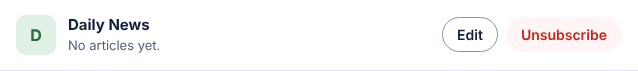
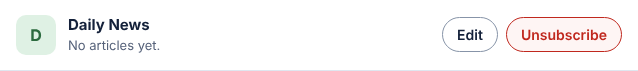
Keep the pill shape on destructive actions
Borderless red text didn't read as a button at first sight. Use a
normal outlined pill with red text instead, tinted red on hover (the
pattern GitHub's Primer uses for danger buttons).

diff --git a/internal/ui/static/css/main.css b/internal/ui/static/css/main.css
@@ -672,16 +672,15 @@
   }
 
   /* An action that loses something you can't get back, where it isn't the
-     final step of a confirmation: red text, no border, a red tint on hover.
-     Hover uses --on-danger-bg, since dark's --danger is too light on
-     --danger-bg. */
+     final step of a confirmation: a normal pill with red text, tinted red
+     on hover. Hover uses --on-danger-bg, since dark's --danger is too light
+     on --danger-bg. */
   .btn-danger-quiet {
-    border-color: transparent;
-    background: none;
     color: var(--danger);
   }
 
   .btn-danger-quiet:hover {
+    border-color: var(--danger);
     background: var(--danger-bg);
     color: var(--on-danger-bg);
   }
@@ -1767,11 +1766,6 @@
   .danger-zone {
     padding: 0.75rem 1rem 1.5rem;
     border-block-start: 1px solid var(--border);
-  }
-
-  /* Line the borderless button's text up with the content above. */
-  .danger-zone .btn-danger-quiet {
-    margin-inline-start: -0.875rem;
   }
 
   /* The timeline edit page's Sharing section, between the form and Delete. */
